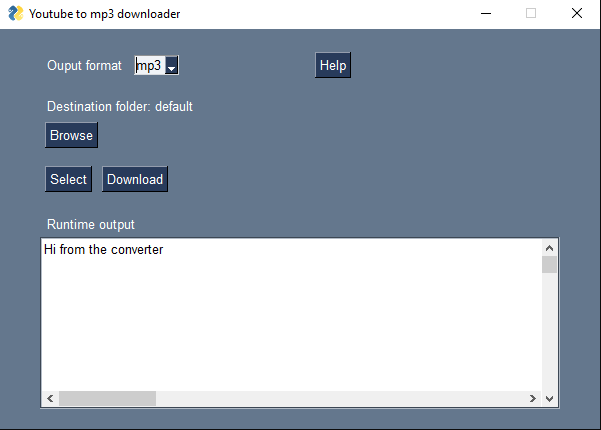
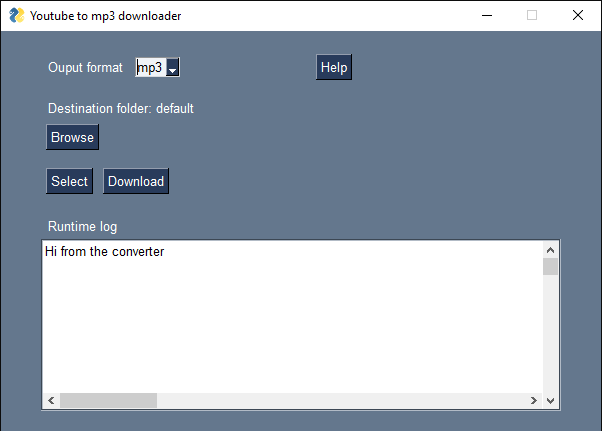
Screen 2

diff --git a/ytb2mp3.py b/ytb2mp3.py
@@ -187,7 +187,7 @@ layout = [
           [sg.Button("Select", key="selectButton", disabled=False),
            sg.Button("Download", key="downloadButton", disabled=False)],
 
-          [sg.Text("\nRuntime output")],
+          [sg.Text("\nRuntime log")],
 
           [sg.Frame(title="",
                     layout=[frameLayout],
